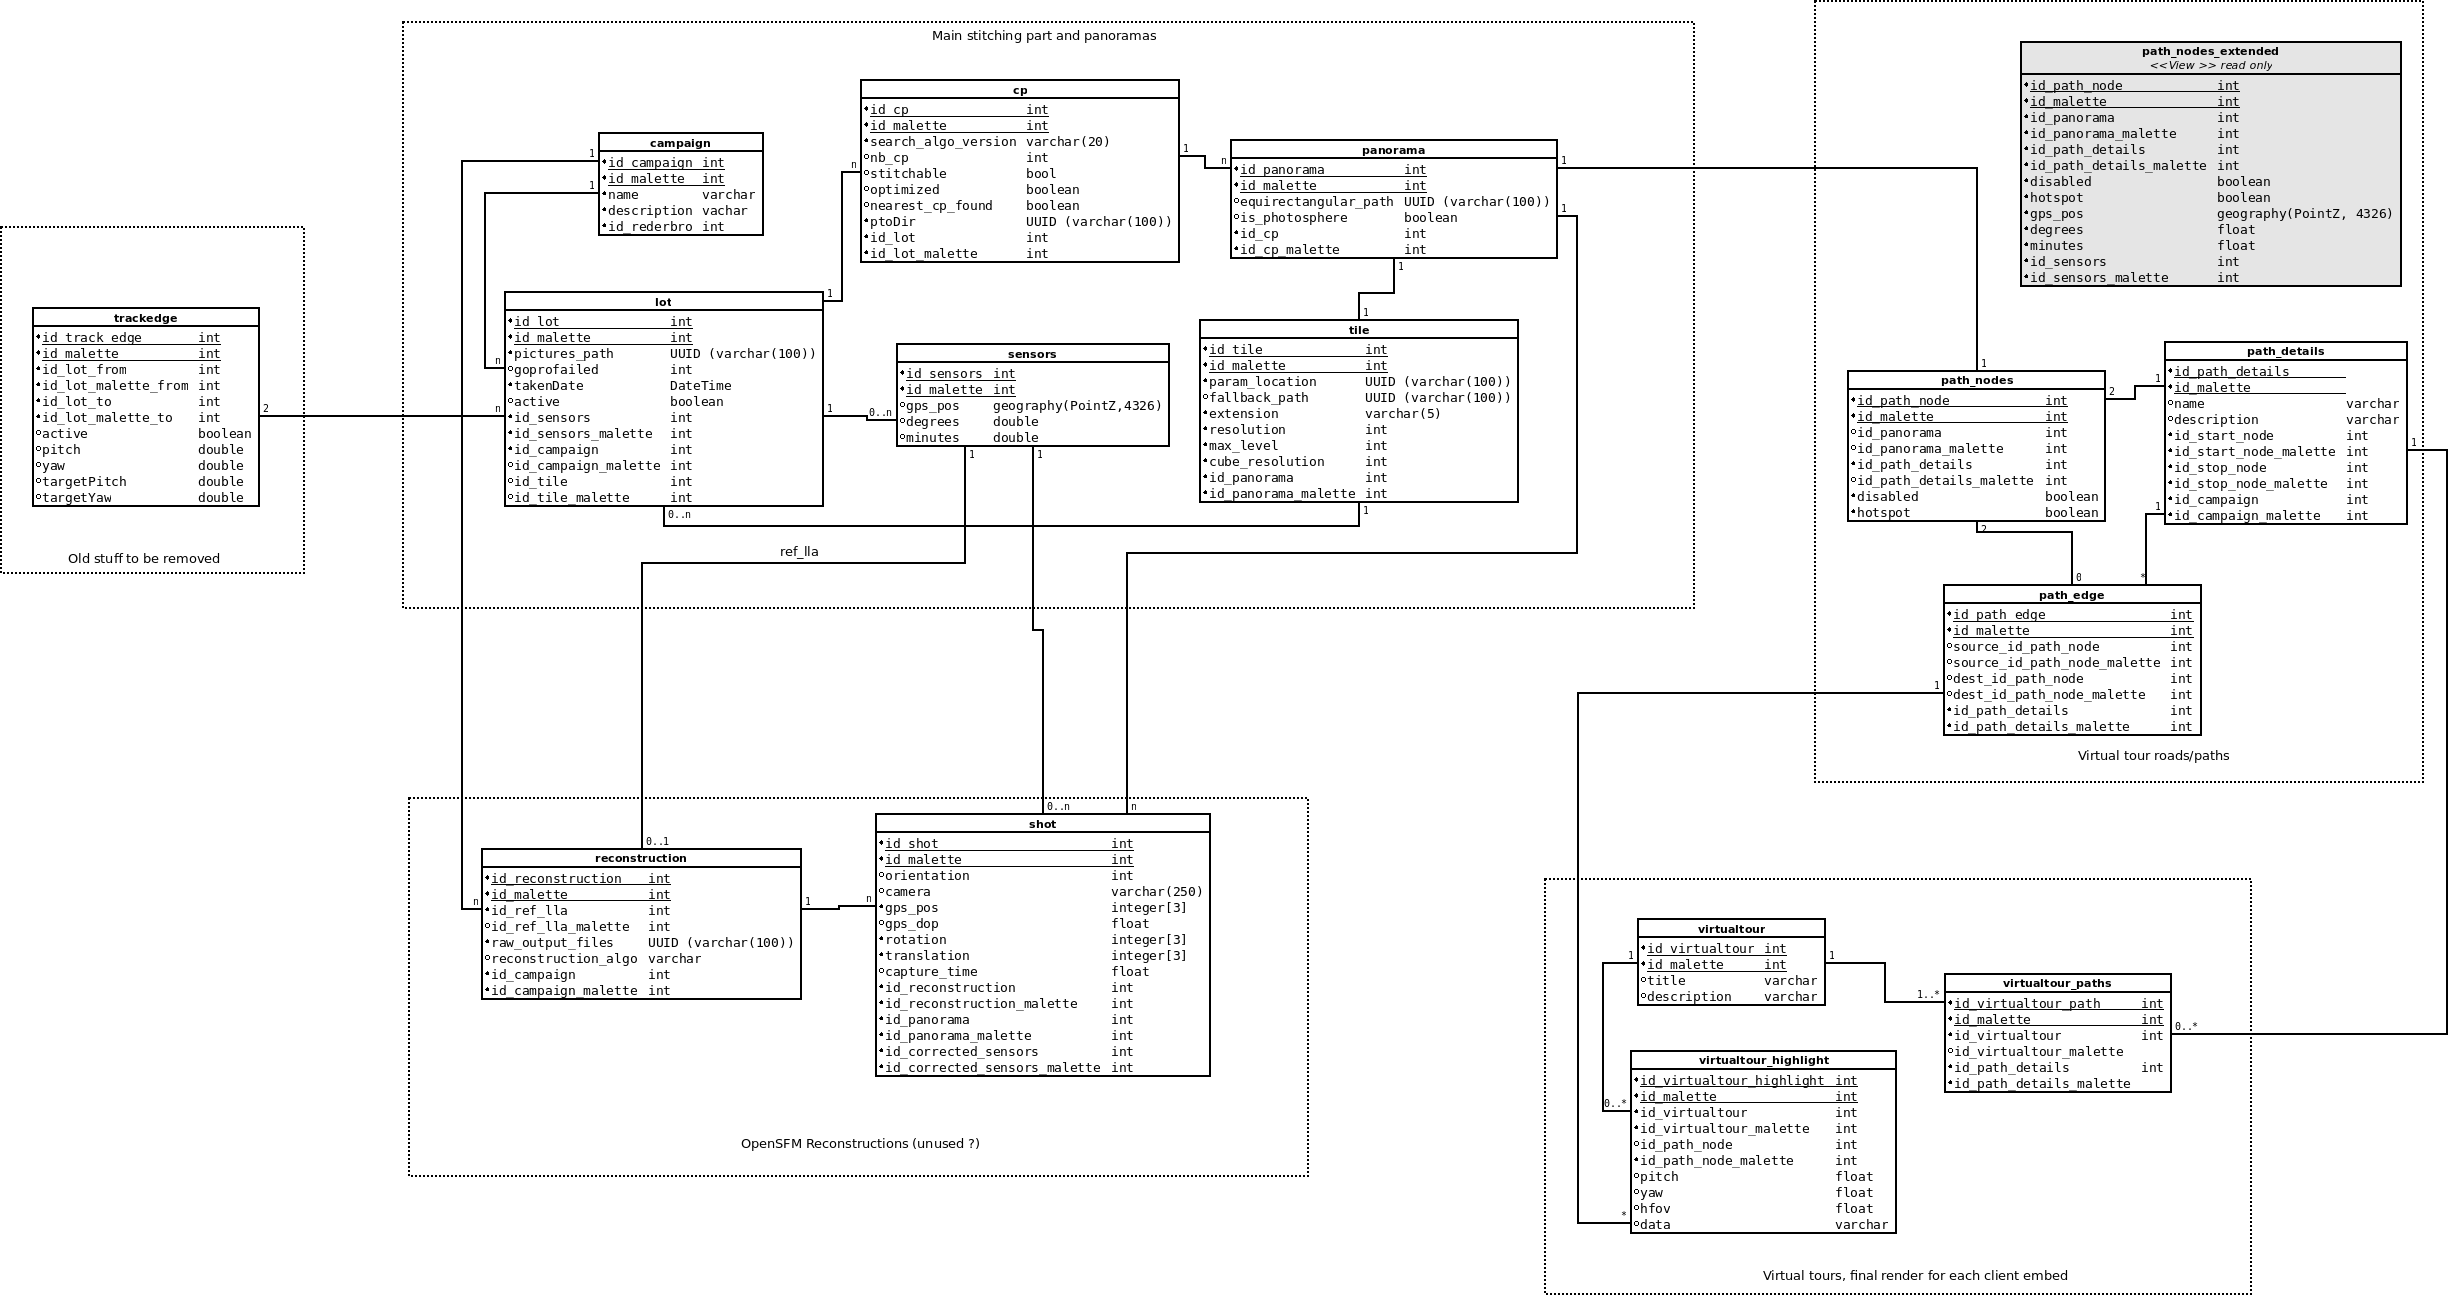
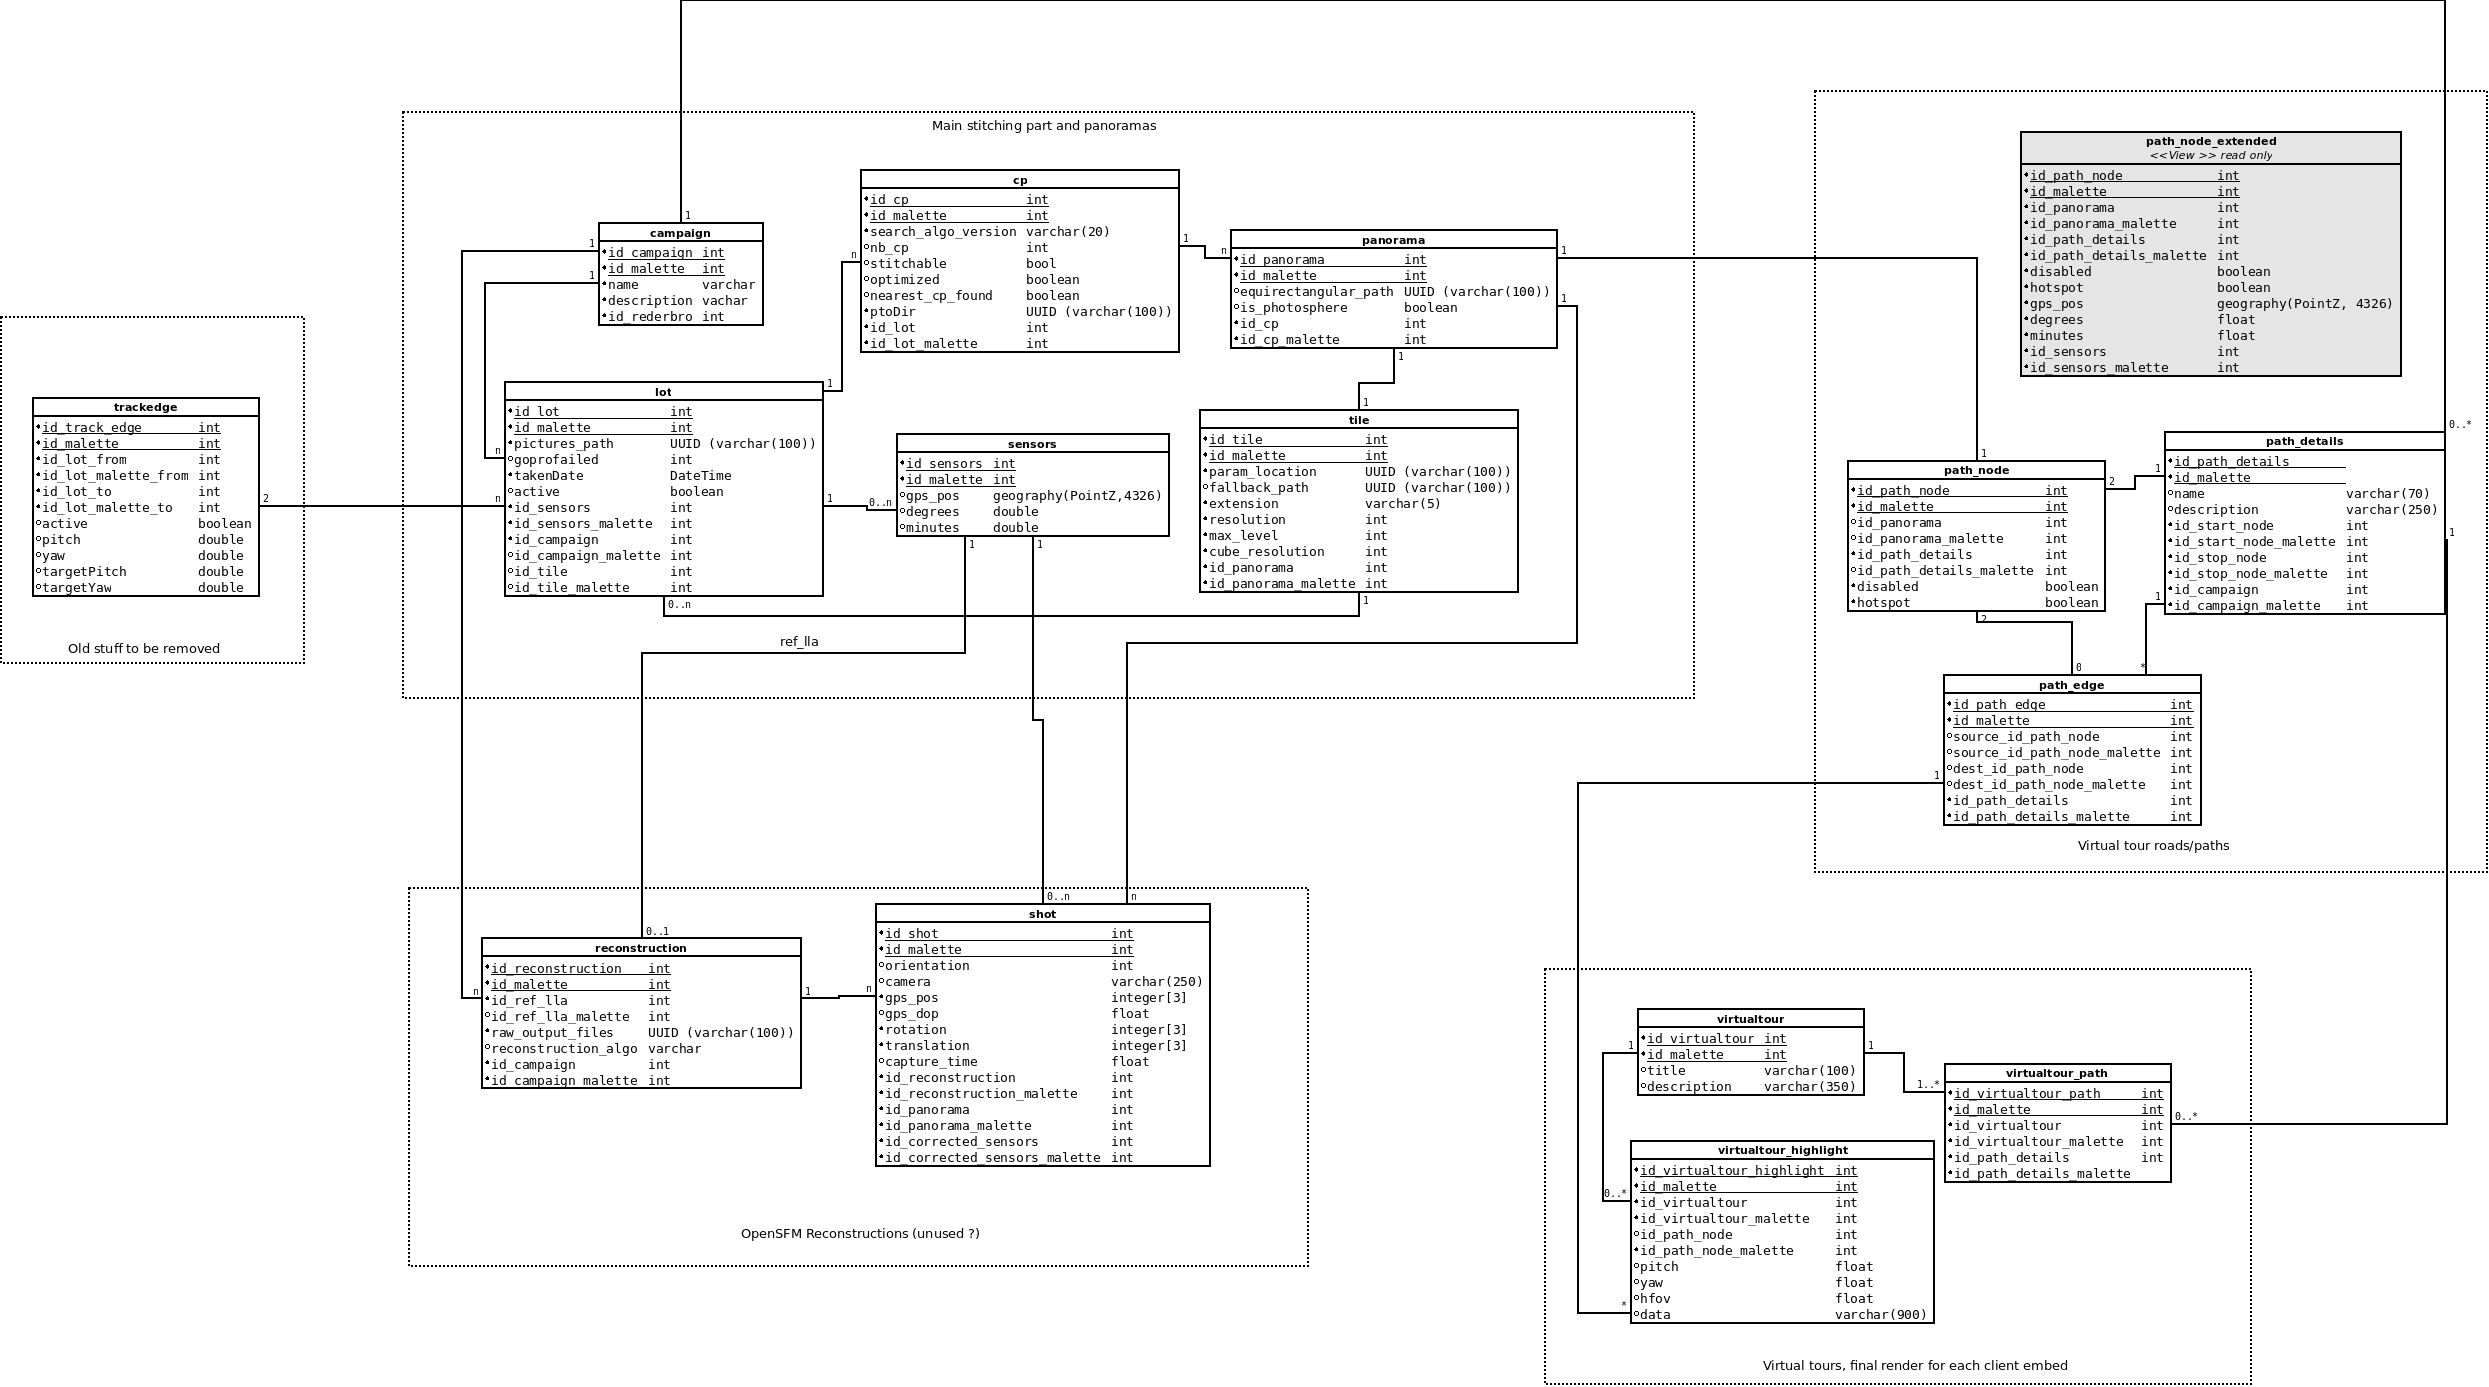
Updating UML + generating accessors and fixing some issues. Fixes #38. Fixes #39.

diff --git a/dbrest/schema.py b/dbrest/schema.py
@@ -3,7 +3,7 @@ from marshmallow_sqlalchemy import ModelSchema
 from marshmallow import fields, decorators, ValidationError
 import json
 
-from dbrest.models import Campaign, Cp, Lot, Panorama, Sensors, Tile, TrackEdge, Reconstruction, Shot, Path, PathNode, PathDetails, PathEdge, Virtualtour, VirtualtourPath, VirtualtourHihlight
+from dbrest.models import Campaign, Cp, Lot, Panorama, Sensors, Tile, TrackEdge, Reconstruction, Shot, Path, PathNode, PathDetails, PathEdge, PathNodesExtended, Virtualtour, VirtualtourPath, VirtualtourHihlight
 from dbrest.db import session
 
 __all__ = ['CampaignSchema', 'CpSchema', 'LotSchema', 'LotWithSensorsSchema',
@@ -134,6 +134,11 @@ class PathEdgeSchema(BaseSchema):
         model = PathEdge
 
 
+class PathNodesExtendedSchema(BaseSchema):
+    gps_pos = GeoJSON()
+
+    class Meta(BaseSchema.Meta):
+        model = PathNodesExtended
 
 
 # ---- Virtual tours, final render data for viewer/embed ----

diff --git a/dbrest/models.py b/dbrest/models.py
@@ -316,7 +316,7 @@ class PathNode(Base):
 
     id_path_details = sa.Column(sa.Integer, nullable=False)
     id_path_details_malette = sa.Column(sa.Integer, nullable=False)
-    path_details = relationship('PathDetails')
+    path_details = relationship('PathDetails', foreign_keys=(id_path_details, id_path_details_malette))
 
     disabled = sa.Column(sa.Boolean, nullable=True)
     hotspot = sa.Column(sa.Boolean, nullable=True)
@@ -413,6 +413,8 @@ class PathNodesExtended(Base):
 
     __table__.primary_key = [__table__.c.id_path_node, __table__.c.id_malette]
 
+    __tablename__ = "path_node_extended"
+
 
 # ---- Virtual tours, final render data for viewer/embed ----
 
@@ -468,6 +470,8 @@ class VirtualtourHihlight(Base):
     hfov = sa.Column(sa.Float)
 
     data = sa.Column(sa.String(900))
+
+    virtualtour = relationship(Virtualtour, backref=backref('virtualtour'))
 
     __table_args__ = (
         sa.ForeignKeyConstraint(

diff --git a/dbrest/api.py b/dbrest/api.py
@@ -176,7 +176,7 @@ def within(id_malette, id_sensors, n: hug.types.number, response):
     return schm.dump(insts, many=True).data
 
 
-db.create_all()
+# db.create_all()  # No more needed has the database needs to be upgraded before
 
 generate_accessors(schema.CampaignSchema())
 generate_accessors(schema.PanoramaSchema())
@@ -189,3 +189,10 @@ generate_accessors(schema.TrackEdgeSchema())
 generate_accessors(schema.ReconstructionSchema())
 generate_accessors(schema.ShotSchema())
 generate_accessors(schema.PathSchema())
+generate_accessors(schema.PathNodeSchema())
+generate_accessors(schema.PathDetailsSchema())
+generate_accessors(schema.PathEdgeSchema())
+generate_accessors(schema.PathNodesExtendedSchema())
+generate_accessors(schema.VirtualtourSchema())
+generate_accessors(schema.VirtualtourPathSchema())
+generate_accessors(schema.VirtualtourHihlightSchema())

diff --git a/dbrest/db.py b/dbrest/db.py
@@ -1,6 +1,5 @@
 import sqlalchemy as sa
 from dbrest import models, settings
-from dbrest.commons import CreateView
 from sqlalchemy.orm import scoped_session, sessionmaker
 
 engine = sa.create_engine(settings.engine_path)
@@ -8,12 +7,6 @@ session = scoped_session(sessionmaker(bind=engine))
 
 # Create DB model
 def create_all():
-    # mapping views
-    sa.orm.mapper(models.PathNodesExtended, models.PathNodesExtended.__view__)
-
     # creating schema (not including views)
     models.Base.metadata.create_all(engine)
-
-    # Creating the views
-    engine.execute(CreateView(models.PathNodesExtended))
 
